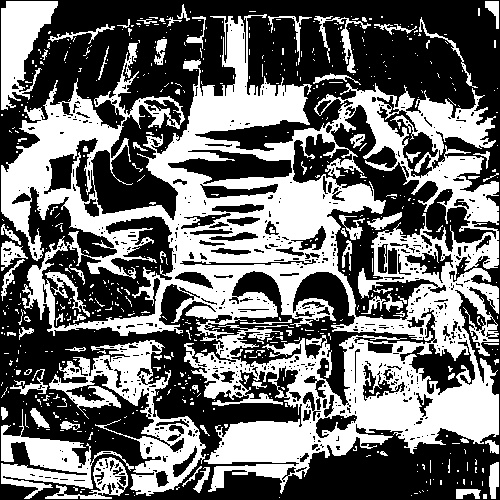
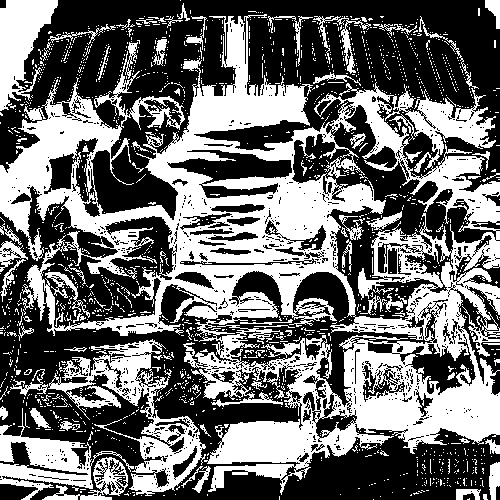
Deleted noise filter

diff --git a/src/TratamientoImagenes.h b/src/TratamientoImagenes.h
@@ -14,7 +14,7 @@ static int dy[] = {-1, -1, 0, 1, 1, 1, 0, -1, -1};
 class TratamientoImagenes
 {
 public:
-    static FingerPrintImage convertirAGrisesPromedio(const cv::Mat &imagenEntrada)
+    static FingerPrintImage convertirAGrises(const cv::Mat &imagenEntrada)
     {
         FingerPrintImage imagenSalida(imagenEntrada.cols, imagenEntrada.rows);
 
@@ -119,59 +119,6 @@ public:
             {
                 int pixel = imagen.getPixel(x, y);
                 salida.setPixel(x, y, (pixel > umbral) ? 255 : 0);
-            }
-        }
-        return salida;
-    }
-
-    static FingerPrintImage filtroBinario1(const FingerPrintImage &imagen)
-    {
-        int width = imagen.getWidth(), height = imagen.getHeight();
-        FingerPrintImage salida(width, height);
-
-#pragma omp parallel for collapse(2)
-        for (int x = 1; x < width - 1; x++)
-        {
-            for (int y = 1; y < height - 1; y++)
-            {
-                int p = (imagen.getPixel(x, y) == 255) ? 1 : 0;
-                int b = (imagen.getPixel(x, y - 1) == 255) ? 1 : 0;
-                int g = (imagen.getPixel(x - 1, y) == 255) ? 1 : 0;
-                int d = (imagen.getPixel(x + 1, y) == 255) ? 1 : 0;
-                int e = (imagen.getPixel(x, y + 1) == 255) ? 1 : 0;
-
-                // Buscamos rellenar huecos o eliminar pixeles que no tienen suficientes vecinos conectados
-                int nuevoPixel = p | (b & g & (d | e)) | (d & e & (b | g));
-                salida.setPixel(x, y, (nuevoPixel != 0) ? 255 : 0);
-            }
-        }
-        return salida;
-    }
-
-    static FingerPrintImage filtroBinario2(const FingerPrintImage &imagen)
-    {
-        int width = imagen.getWidth(), height = imagen.getHeight();
-        FingerPrintImage salida(width, height);
-
-#pragma omp parallel for collapse(2)
-        for (int x = 1; x < width - 1; x++)
-        {
-            for (int y = 1; y < height - 1; y++)
-            {
-                int a = (imagen.getPixel(x - 1, y - 1) == 255) ? 1 : 0;
-                int b = (imagen.getPixel(x, y - 1) == 255) ? 1 : 0;
-                int c = (imagen.getPixel(x + 1, y - 1) == 255) ? 1 : 0;
-                int d = (imagen.getPixel(x - 1, y) == 255) ? 1 : 0;
-                int e = (imagen.getPixel(x + 1, y) == 255) ? 1 : 0;
-                int f = (imagen.getPixel(x - 1, y + 1) == 255) ? 1 : 0;
-                int g = (imagen.getPixel(x, y + 1) == 255) ? 1 : 0;
-                int h = (imagen.getPixel(x + 1, y + 1) == 255) ? 1 : 0;
-                int p = (imagen.getPixel(x, y) == 255) ? 1 : 0;
-
-                int term1 = (a | b | d) & (e | g | h);
-                int term2 = (b | c | e) & (d | f | g);
-                int nuevoPixel = p & (term1 | term2);
-                salida.setPixel(x, y, (nuevoPixel != 0) ? 255 : 0);
             }
         }
         return salida;

diff --git a/main.cpp b/main.cpp
@@ -35,7 +35,7 @@ int main()
         double inicio = omp_get_wtime(); // Inicio para el tiempo de procesamiento
 
         // Pasa de color a gris
-        FingerPrintImage imagenGrisesA = TratamientoImagenes::convertirAGrisesPromedio(imagenActual);
+        FingerPrintImage imagenGrisesA = TratamientoImagenes::convertirAGrises(imagenActual);
         // Mejora el contraste
         FingerPrintImage imagenEcualizada = TratamientoImagenes::ecualizarHistograma(imagenGrisesA);
 
@@ -43,11 +43,7 @@ int main()
 
         // Convierte todo a blanco (255) o negro (0)
         FingerPrintImage imagenByN = TratamientoImagenes::binarizarImagen(imagenEcualizada);
-        // Limpian ruido
-        FingerPrintImage imagenFiltrada1 = TratamientoImagenes::filtroBinario1(imagenByN);
-        FingerPrintImage imagenFiltrada2 = TratamientoImagenes::filtroBinario2(imagenFiltrada1);
-
-        FingerPrintImage imagenFinal = imagenFiltrada2;
+        FingerPrintImage imagenFinal = imagenByN;
 
         // Creamos una matriz de OpenCV del mismo tamaño que nuestra imagen procesada
         cv::Mat matFinal(imagenFinal.getHeight(), imagenFinal.getWidth(), CV_8UC1);
@@ -62,7 +58,7 @@ int main()
             }
         }
 
-        // Mostrar la ventana con el resultado
+        // Guardar en salida
         cv::imwrite(ruta_salida.string(), matFinal);
 
         float fin = omp_get_wtime(); // Fin para el tiempo de procesamiento
